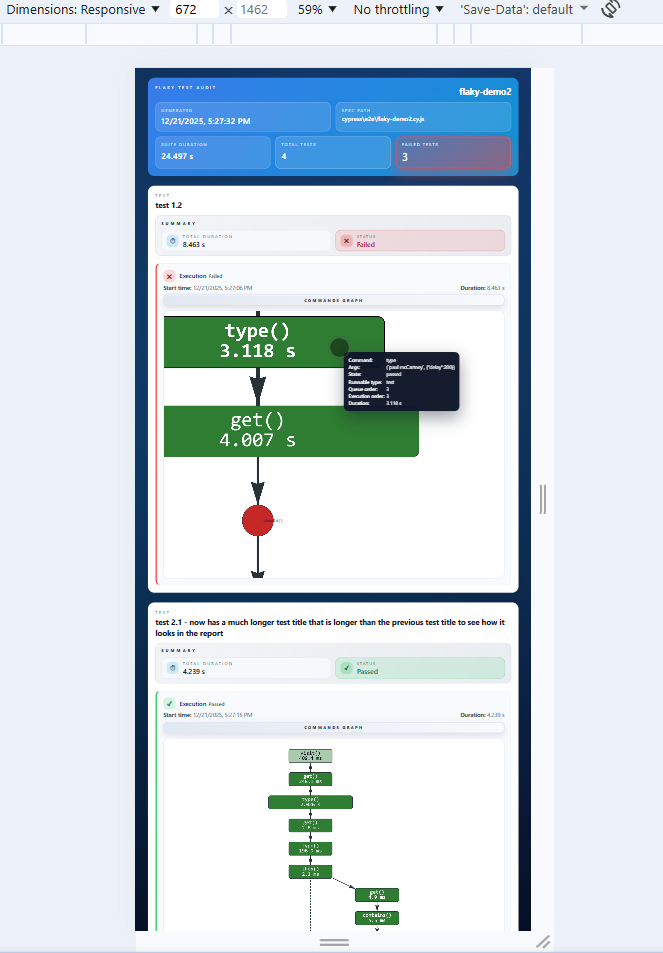
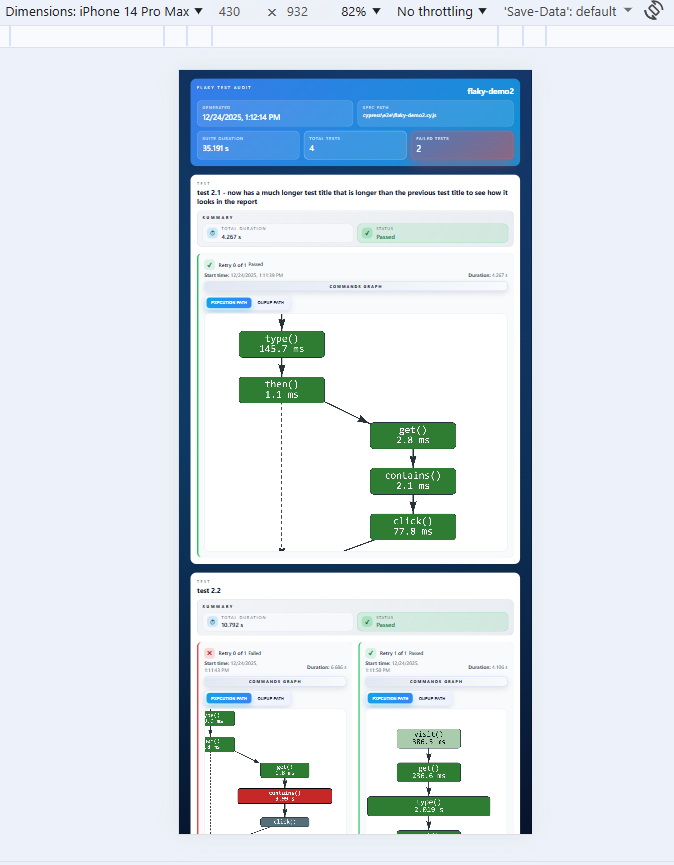
Updated resdme.md with new feature of critical paths and tooltip

Changed region(s): [[0.0, 0.0, 1.0, 1.0]]

diff --git a/cypress/e2e/flaky-demo2.cy.js b/cypress/e2e/flaky-demo2.cy.js
@@ -22,7 +22,7 @@ describe('Something', { tags: ['@plugin', '@flaky-demo'] }, () => {
     //   .should('be.eq', 30)
     cy.log('1- afterEach')
   })
-  
+
   // afterEach(() => {
   //   cy.log('2- afterEach')
   // })
@@ -45,7 +45,7 @@ describe('Something', { tags: ['@plugin', '@flaky-demo'] }, () => {
       .click() // ⛔ C.NEVER RUN
   })
 
-  it.only('test 1.2', () => {  // ❌ TEST FAIL 
+  it('test 1.2', () => {  // ❌ TEST FAIL 
     const timeToWait = 500;
 
     cy.get('#contact input[data-testid="ContactName"]').type('paul mcCartney', { delay: 200 })
@@ -230,7 +230,7 @@ describe('Something', { tags: ['@plugin', '@flaky-demo'] }, () => {
         cy.get('#contact button')
           .contains('Submit')
           .click()
-      }      
+      }
     })
 
     cy.wait(timeToWait) // ⏳ C.PASS SLOW
@@ -351,7 +351,7 @@ describe('Something', { tags: ['@plugin', '@flaky-demo'] }, () => {
 
     cy.wait(timeToWait)
   })
-  
+
   it.only('test 7.2', () => {  // TEST PASS
     const timeToWait = 200;
 

diff --git a/README.md b/README.md
@@ -29,12 +29,17 @@ Related reading: [The async nature of Cypress – don’t mess with the timeline
 
 ✔ **Slowness Thresholds** – Highlight slow tests and commands with customizable performance budgets.
 
+✔ **Richer Failure Context** – Failed command tooltips now surface both the code frame (file:line:column) and the underlying error message so you can jump straight to the root cause.
+
+✔ **Dual Graph Views** – Toggle between **Execution path** (actual run order) and **Queue path** (enqueue order) directly in the report; queue edges render as dotted lines for clarity.
+
 ✔ **Task-free HTML Export** – When enabled, automatically writes a timestamped HTML file per spec under `cypress/reports/flaky-test-audit/`, including:
 
    - **Suite overview**: Totals (tests, passes/failures), run duration, and metadata.
    - **Test & retry cards**: Per-test status plus a breakdown of each retry (retry index, start time, duration).
-   - **Fully interactive command graph (per retry)**: Zoomable/pannable network-style view of the command queue and execution flow, showing blocks nested relationships and state transitions.
-   - **Tooltips**: Inspect each command details on commnad click (type, runnable context, timings, internal retries).
+   - **Fully interactive command graph (per retry)**: Zoomable/pannable network-style view of the command queue and execution flow, showing nested relationships and state transitions.
+   - **Graph modes**: Switch between **Execution path** (nextCommandId links) and **Queue path** (queueInsertionOrder with dotted edges) to reason about run order vs enqueue order.
+   - **Tooltips**: Inspect each command’s type, runnable context, timings, internal retries, and (for failures) the exact code frame + error message.
    - **Visual cues**: Quickly spot failures, queued-but-never-run commands, and slow commands (based on your thresholds).
    - **Fully mobile responsive**: 100% responsive to mobile layouts.
 
@@ -134,7 +139,7 @@ module.exports = {
 
 ## Audit Results
 
-Depending on which outputs you enable, the audit data is presented in three different ways.
+Depending on which outputs you enable, the audit data is presented in three different ways: browser console, terminal console, HTML report.
 
 ### Browser Console
 
@@ -144,7 +149,11 @@ Depending on which outputs you enable, the audit data is presented in three diff
 
   * At the **Test** level, it shows a summary of that test **retry**:
   
-    1. State: `✔ PASSED`, `✔ PASSED (⏳ *slow*)` (duration longer than `testSlownessThreshold`), `❌ FAILED`, `⛔ QUEUED (*never run*)`.
+    1. Test state:
+       - `✔ PASSED`
+       - `✔ PASSED (⏳ *slow*)` (duration longer than `testSlownessThreshold`)
+       - `❌ FAILED`
+       - `⛔ QUEUED (*never run*)`.
     2. Test title.
     3. Retry number (when configured for multiple retries).
     4. Start time of the test retry.
@@ -212,43 +221,119 @@ Test Failed in retry #0.
   - For each retry in a test:
 
     - Retry number, start time, and duration.
-    - Fully interactive **command graph** (rendered via `vis-network`) that visualizes the execution timeline, nested executions, and state transitions.
-    - Graph supports zooming and panning.
-    - And provides per-command tooltips with execution details.
+    - A fully interactive **command graph** (rendered via `vis-network`) that visualizes the execution timeline, nested executions, and state transitions.
+    - **Execution path** view option that shows the real run order (solid edges), while **Queue path** shows enqueue order using dotted edges and queue insertion order.
+    - The graph supports zooming and panning.
+    - Per-command tooltips with execution details.
 
-- Written automatically when `createFlakyTestAuditReport` is **`true`**.
+- HTML report is written automatically when `createFlakyTestAuditReport` is **`true`**.
 
-- Files are saved as `<spec-name>_<timestamp>.html` in the folder specified by the Cypress config variable `testAuditFolder`.
+- Files are saved as `<spec-name>_<timestamp>.html` in the folder specified by the Cypress config variable `testAuditFolder` (by default, this is `cypress/reports/flaky-test-audit/`).
 
-> You can download an example HTML report of a flaky test audit from [this file](assets/Example-report-flaky-test-audit_2025-12-22T00-44-28.042Z.html).
+> You can download the latest example HTML report (showing Execution vs Queue paths and enriched failure tooltips) from [`cypress/reports/flaky-test-audit/flaky-demo2_2025-12-23T22-23-40.820Z.html`](cypress/reports/flaky-test-audit/flaky-demo2_2025-12-23T22-23-40.820Z.html).
 
 #### HTML report - Overview
 
+This is an overview of a Flaky Test Audit report, showing the suite header with metadata, the list of tests, and each retry that was run for every test.
+
 ![HTML report overview](assets/html-report-overview-placeholder.png)
 
-#### HTML report - Test passes on the first attempt and Cypress Command tooltip
+#### Commands, Assertions and Hooks
+
+The interactive command graph is designed to help you **read a test run at a glance**: what happened, what failed, what never ran, and where time was spent.
+
+- **Commands & queries** are displayed as **rectangles** in the graph.
+  - Inside each rectangle, you'll see the type of command or query (for example: VISIT, GET, etc.) along with how long it took to run.
+  - The **wider** the rectangle, the **more time** that command took to execute.
+- **Assertions** (like `.should()`) show up as **circles (dots)**, so they’re easy to spot in the flow.
+- **Colors mean the same thing everywhere** (commands, queries, assertions):
+  - **Green**: passed
+  - **Red**: failed
+  - **Gray**: enqueued (added to the Cypress queue) but **never executed**
+
+Commands, queries, and assertions that belong to the same block scope are shown as nested in the graph (indented to the right).
+
+**Hook commands** (`beforeEach()` / `afterEach()`) follow the same color rules, but are rendered **faded** so they stand out from the commands in the **test body**.
+
+For example, given this Cypress test code:
+
+![Cypress test code](assets/html-report-source-code-test.png)
+
+The graph below shows the exact order in which commands were executed, how long each took, and what their final state was after execution:
+
+![Commands, assertions, and hooks in the graph ](assets/html-report-commands-queries-assertions-hooks-state.png)
+
+The execution path shows that after the then() command, wait() is enqueued, but get() runs first because it's inside the then() block scope.
+
+> ⚠ Commands that are part of a `before()` or `after()` hook might not be included in the test audit.
+
+#### Execution path VS Queued path
+
+For each retry executed, there are 2 visualizations of the test run: Execution path and Queued path.
+
+- **Execution path**: represents the order in which commands, queries, and assertions were actually **executed**.
+- **Queued path**: represents the order in which commands, queries, and assertions were **enqueued** (added to the Cypress command queue).
+
+Execution paths are represented with solid arrows in the graph, and enqueued paths with dotted arrows.
+
+These two orders are not always the same. Because Cypress commands are **queued asynchronously**, commands can be added from inside other command block scopes (for example within a `.then()` callback) or from within a **custom command** implementation. In those cases, Cypress may enqueue some commands later, even though they execute as part of the same overall flow, so the **execution order** and **enqueued order** can diverge.
+
+##### Execution path
+
+![Execution path (solid arrows)](assets/execution-path.png)
+
+##### Enqueued path
+
+![Enqueued path (dotted arrows)](assets/enqueued-path.png)
+
+#### Commands Tooltips and box width
+
+Each node in the graph is clickable. When you click a **command**, **query**, or **assertion**, the report opens a tooltip with the most relevant execution details for that node.
+
+- **How to open/close**
+  - **Open**: click on a node.
+  - **Close**: click on empty space, move the mouse inside the tooltip, or pan/zoom.
+
+- **Tooltip fields (always shown)**
+  - **Command**: the Cypress command name (e.g. `visit`, `get`, `should`).
+  - **Args**: shows the argument(s) passed to the Cypress command (for example, the selector string or typed value). If there are multiple arguments, all are shown in the order they were passed.
+  - **State**:
+    - `✔ passed`
+    - `❌ failed`
+    - `⛔ queued (never run)` (when it was enqueued but never executed)
+    - `⏳ passed (slow)` (when it passed, but took longer than your `commandSlownessThreshold`)
+  - **Runnable type**: whether it ran in the **test body** (`test`) or inside a **hook** (`beforeEach`, `afterEach`).
+  - **Queue order**: The position at which the command was added to the Cypress command queue.
+  - **Execution order**: The position at which the command was actually executed during the test run.
+  - **Duration**: how long the command took to run (if it executed).
+
+- **Extra fields (only when the node failed)**
+  - **CodeFrame**: best-effort source location in the format `file:line:column`.
+  - **Message**: the underlying Cypress error message that caused the failure.
+
+- **Box width (rectangles)**
+  - **Rectangles scale with time**: wider boxes mean longer-running commands.
+  - **Assertions shown as circles** don’t use box width, but still carry the same tooltip details when clicked.
+
+![Failed command tooltip](assets/failed-command-tooltip.png)
+
+#### Examples of HTML Report
+
+##### Test passes on the first attempt
 
 ![Test passes on the first attempt and Cypress Command tooltip](assets/html-report-pass-tooltip-placeholder.png)
 
-#### HTML report - Test passes after one or more retries
+##### Test passes after one or more retries
 
 ![Test passes after one or more retries](assets/html-report-pass-retries-placeholder.png)
 
-#### HTML report - Test fails after all retries are exhausted
+##### Test fails after all retries are exhausted
 
 ![Test fails after all retries are exhausted](assets/html-report-fail-placeholder.png)
 
-#### HTML report - Fully mobile responsive
+##### Report fully mobile responsive
 
 ![ Fully mobile responsive](assets/html-report-mobile-responsive-placeholder.png)
-
-####  HTML report - Test hook commands and no retries configured
-
-Cypress commands that are part of `beforeEach()` and `afterEach()` hooks are shown in a faded color for clarity.
-
-> ⚠ Commands that are part of a `before()` or `after()` hook are not included.
-
-![Test hook commands and no retries configured](assets/html-report-hooks-placeholder.png)
 
 
 ## License
